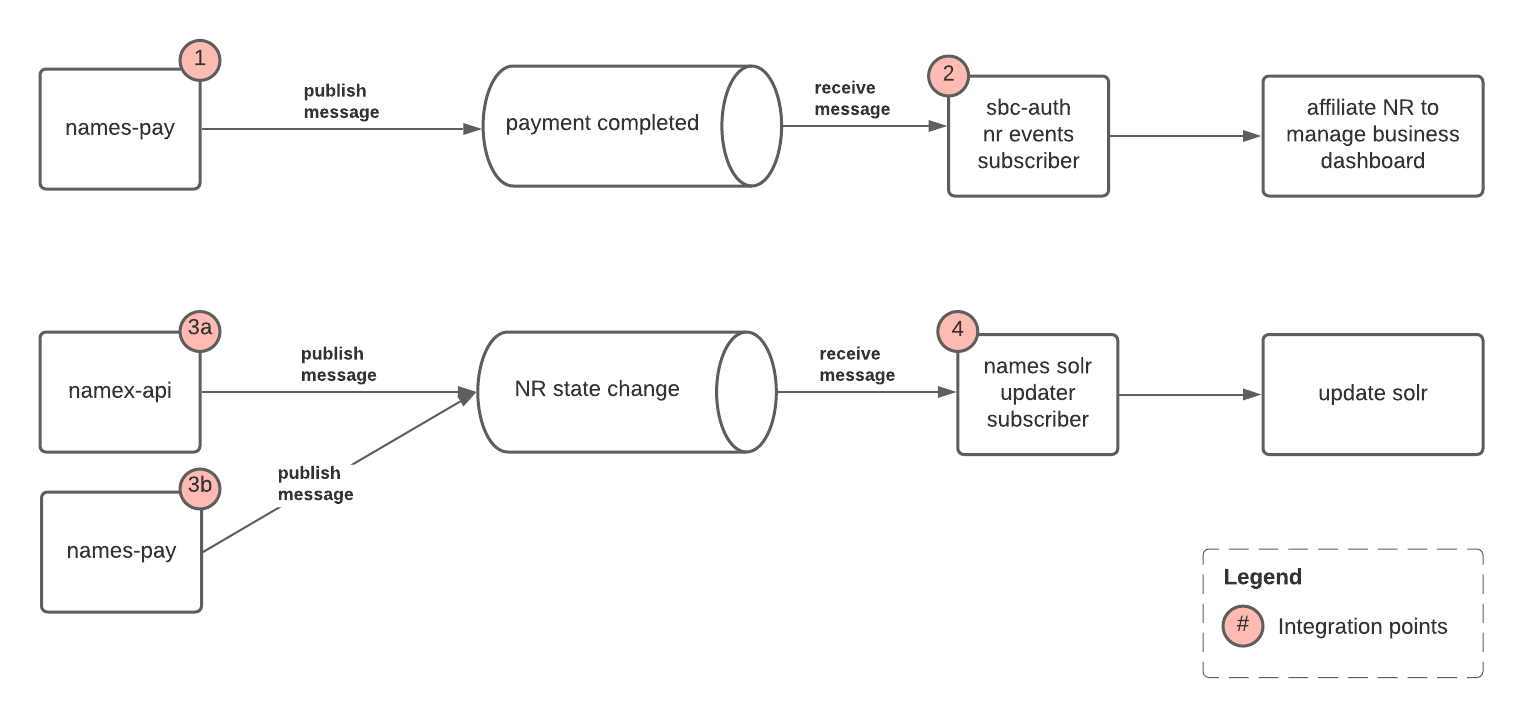
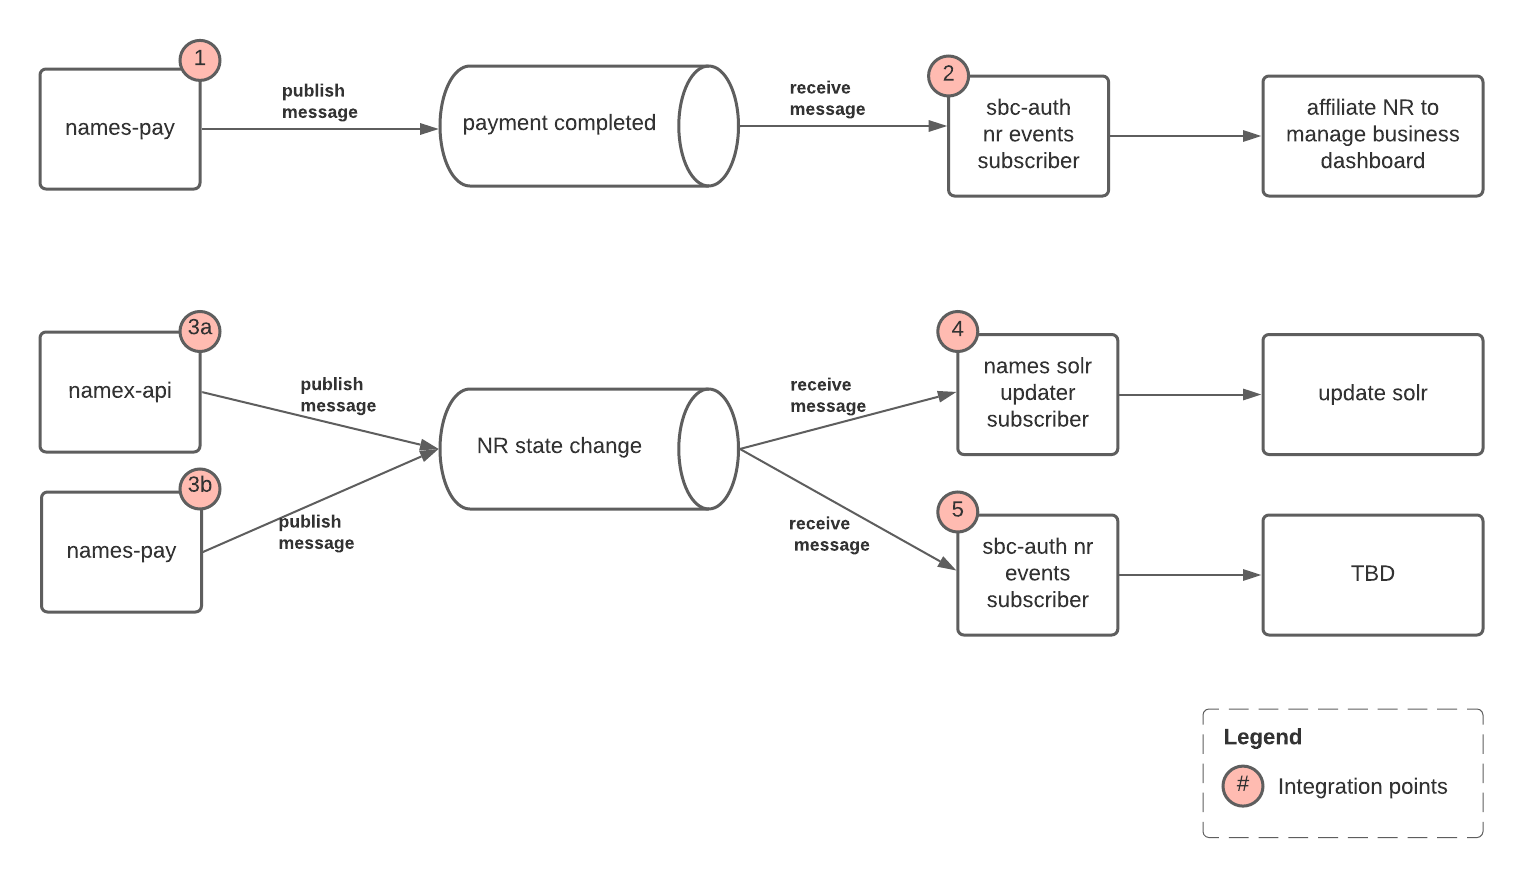
7984 Add sbc-auth subscriber to NR state change flow

diff --git a/rfcs/rfc-cloud-events-for-name-request.md b/rfcs/rfc-cloud-events-for-name-request.md
@@ -226,6 +226,15 @@ We would like to replace this existing way of triggering an update to SOLR names
 subscriber.  This new subscriber will subscribe to the `nr.events` subject and will update SOLR indexes the same way
 the previous process did when a NR state change message that requires a SOLR index update is received.  
 
+### Integration Point 5 - SBC-Auth NR Events Subscriber
+
+A new subscriber may need to be created to listen for the `nr.events` subject to process NR state change messages.  Note
+that it may not be necessary to create a new subscriber if the subscriber used in integration point 2 will be used to process
+multiple message types.  i.e. payment completed and NR state change messages.
+
+The details of what will the subscriber will do with a NR state change message is has not been decided at this point in 
+time.  The Entities or the Relationships team will be implementing this subscriber.
+
 # Drawbacks
 
 Event publishing or consumption may not happen in a timely enough matter in particular scenarios.
